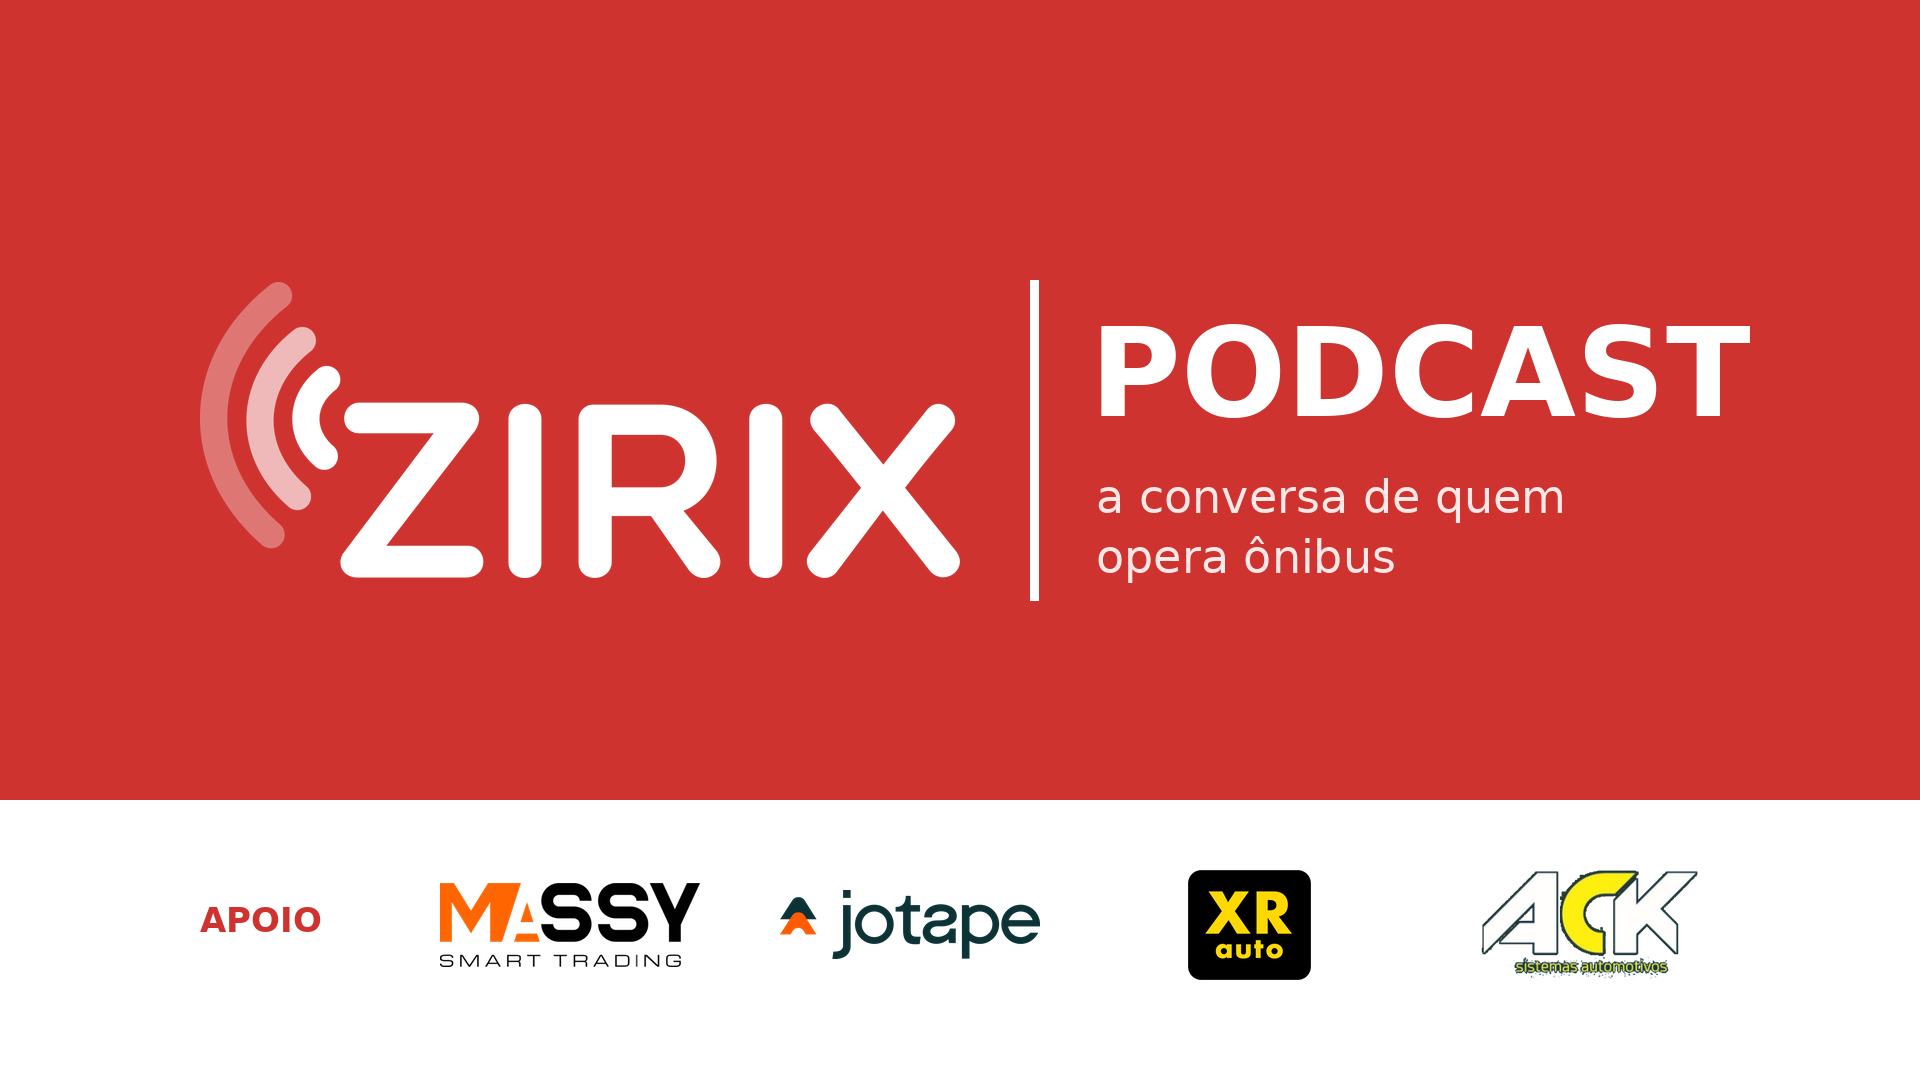
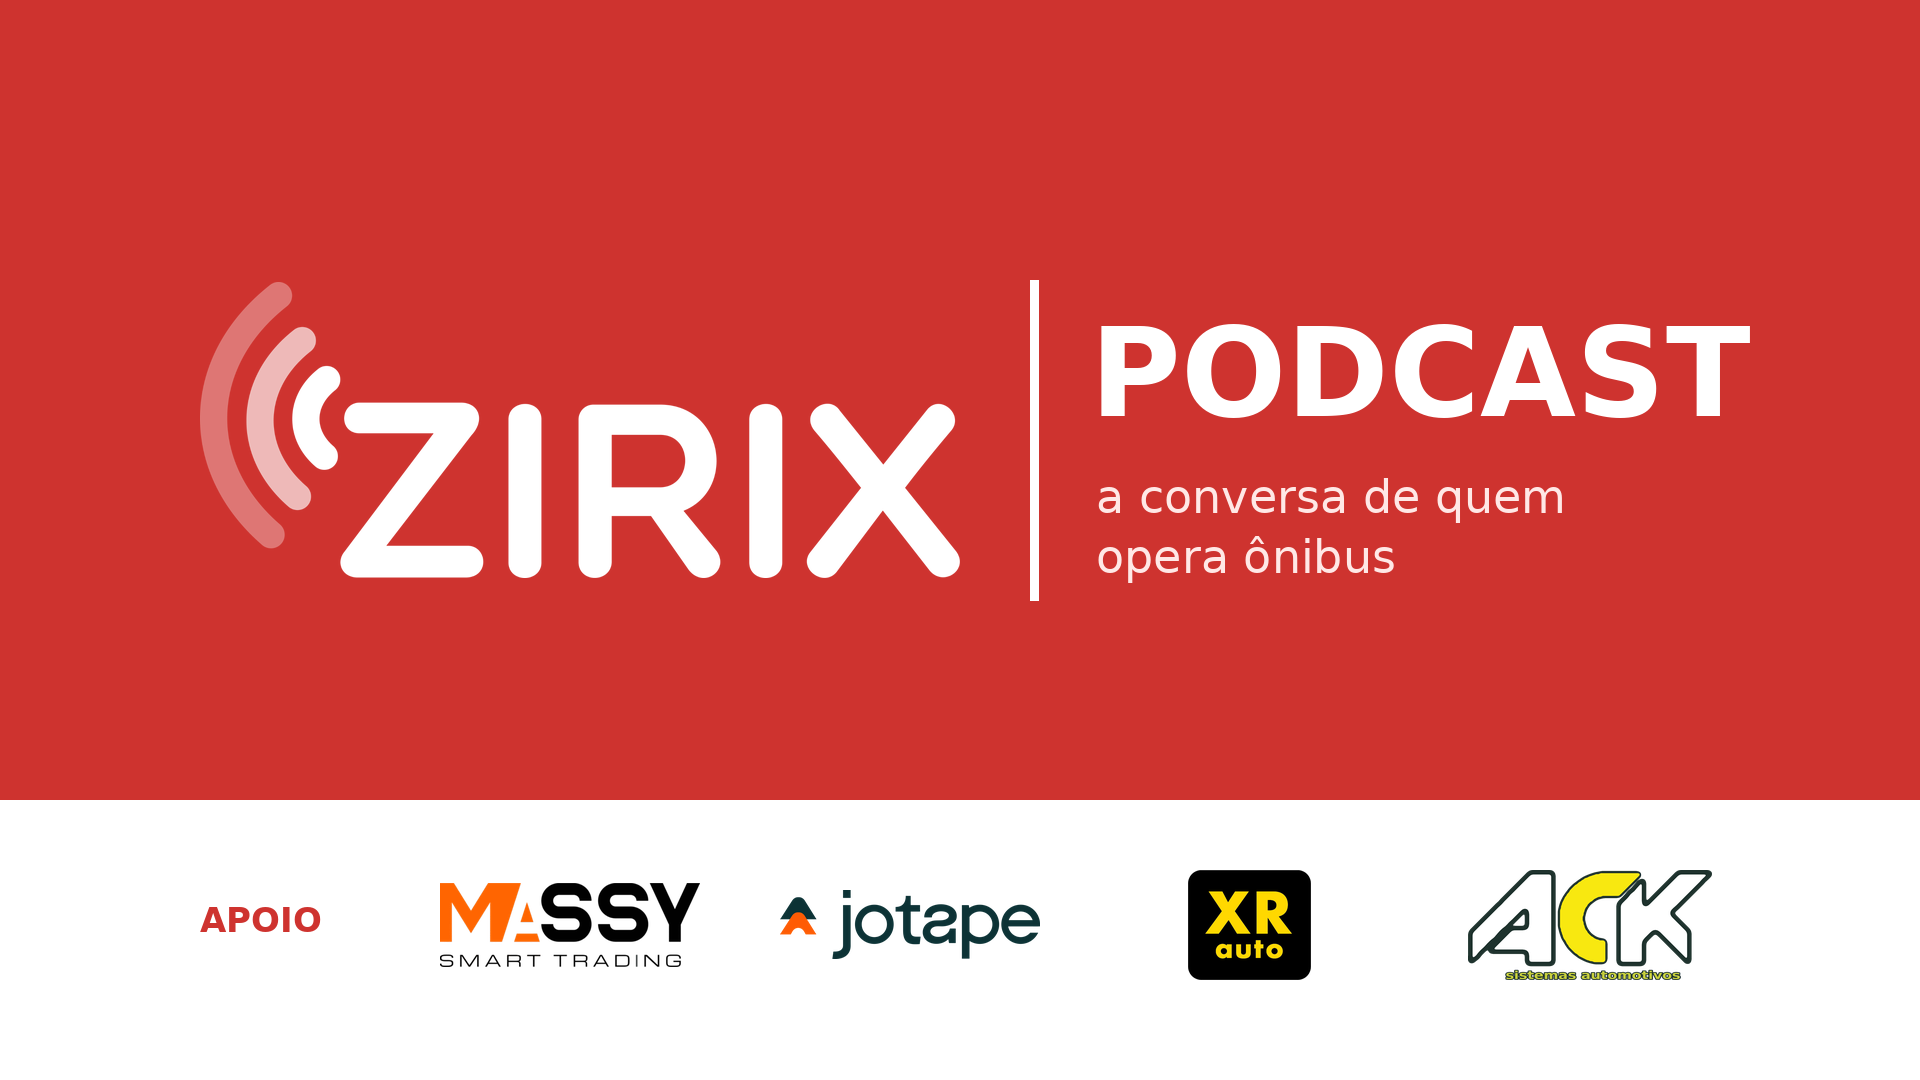
Zirix Podcast: ACK reconstruído em alta definição para o fundo da TV
Claude-Session: https://claude.ai/code/session_01MN7JrJCWDLdEHN3nupkcvu

Changed region(s): [[0.75, 0.7944, 0.9062, 0.9167]]

diff --git a/identidade/redesenhar_ack.py b/identidade/redesenhar_ack.py
@@ -1,0 +1,71 @@
+"""Reconstrói o logo da ACK em alta definição a partir do arquivo pequeno (300x160).
+
+O arquivo recebido não tem resolução para TV. As formas do A, do C e do K são
+simples, então são extraídas por cor, ampliadas e suavizadas até ficarem com
+borda limpa; "sistemas automotivos" é redigitado. Cores mantidas do original.
+Provisório até a ACK enviar o arquivo vetorial oficial (SVG, PDF ou AI).
+"""
+import sys
+from pathlib import Path
+
+from PIL import Image, ImageDraw, ImageFilter, ImageFont
+
+ENTRADA, SAIDA = Path(sys.argv[1]), Path(sys.argv[2])
+K = 8                                  # ampliação
+BRANCO, AMARELO = (255, 255, 255), (248, 232, 16)
+VERDE_TEXTO, CONTORNO = (196, 204, 60), (30, 50, 45)
+
+im = Image.open(ENTRADA).convert("RGBA")
+w, h = im.size
+corte = int(h * 0.76)                  # abaixo disso fica o texto
+
+
+def mascara(teste) -> Image.Image:
+    m = Image.new("L", (w, h), 0)
+    px, pm = im.load(), m.load()
+    for y in range(corte):
+        for x in range(w):
+            r, g, b, a = px[x, y]
+            if a > 90 and teste(r, g, b):
+                pm[x, y] = 255
+    return m
+
+
+def suave(m: Image.Image, limiar: int = 128, raio: float = 0.9 * K) -> Image.Image:
+    m = m.filter(ImageFilter.MedianFilter(3))   # remove pontinhos soltos
+    grande = m.resize((w * K, h * K), Image.BICUBIC).filter(ImageFilter.GaussianBlur(raio))
+    return grande.point(lambda v: 255 if v >= limiar else 0)
+
+
+amarelo = mascara(lambda r, g, b: r > 170 and g > 150 and b < 120)
+letras = mascara(lambda r, g, b: not (r > 170 and g > 150 and b < 120))  # A e K com o contorno
+# o contorno escuro em volta do C pertence ao C: tira-o da máscara do A/K
+from PIL import ImageChops
+perto_do_c = amarelo.filter(ImageFilter.MaxFilter(7))
+letras = ImageChops.subtract(letras, perto_do_c)
+
+forma_ak = suave(letras)
+forma_c = suave(amarelo)
+contorno_ak = forma_ak.filter(ImageFilter.GaussianBlur(1.8 * K)).point(lambda v: 255 if v >= 25 else 0)
+miolo_ak = forma_ak.filter(ImageFilter.GaussianBlur(1.8 * K)).point(lambda v: 255 if v >= 230 else 0)
+contorno_c = forma_c.filter(ImageFilter.GaussianBlur(1.8 * K)).point(lambda v: 255 if v >= 25 else 0)
+
+W, H = w * K, h * K
+out = Image.new("RGBA", (W, H), (0, 0, 0, 0))
+for mask, cor in ((contorno_ak, CONTORNO), (miolo_ak, BRANCO), (contorno_c, CONTORNO), (forma_c, AMARELO)):
+    camada = Image.new("RGBA", (W, H), cor + (255,))
+    out.paste(camada, (0, 0), mask)
+
+# texto redigitado na largura do original
+fonte = ImageFont.truetype("/usr/share/fonts/truetype/dejavu/DejaVuSans-Bold.ttf", 15 * K)
+texto = "sistemas automotivos"
+tmp = Image.new("RGBA", (W * 2, 40 * K), (0, 0, 0, 0))
+ImageDraw.Draw(tmp).text((2 * K, 2 * K), texto, font=fonte, fill=VERDE_TEXTO,
+                         stroke_width=int(1.2 * K), stroke_fill=CONTORNO)
+tmp = tmp.crop(tmp.getbbox())
+alvo_l, alvo_x = int(0.62 * W), int(0.2 * W)             # mesma largura e posição do original
+tmp = tmp.resize((alvo_l, int(tmp.height * 0.78)), Image.LANCZOS)
+out.alpha_composite(tmp, (alvo_x, int(corte * K + 0.02 * H)))
+out = out.crop(out.getbbox())
+out.save(SAIDA)
+print(SAIDA, out.size)
